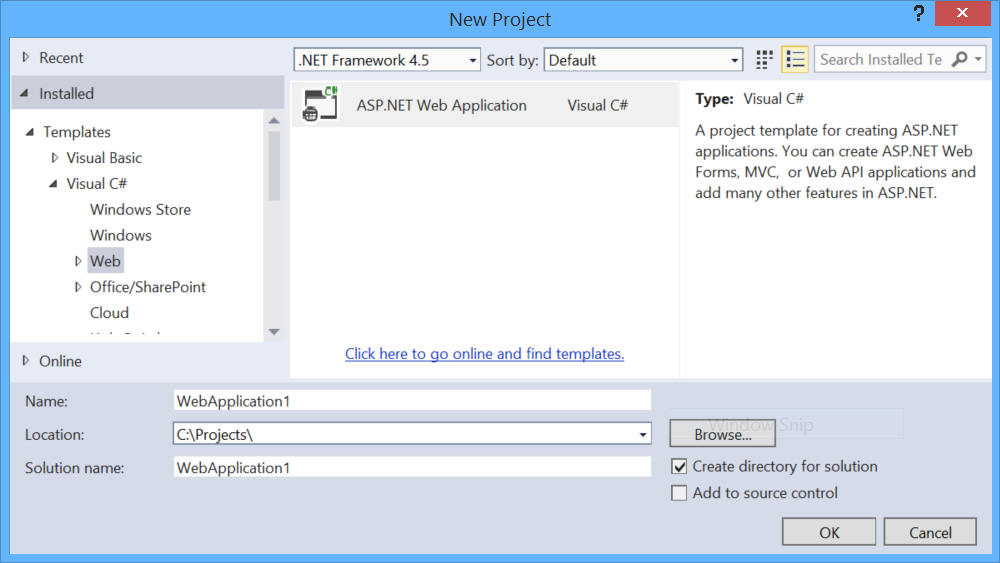
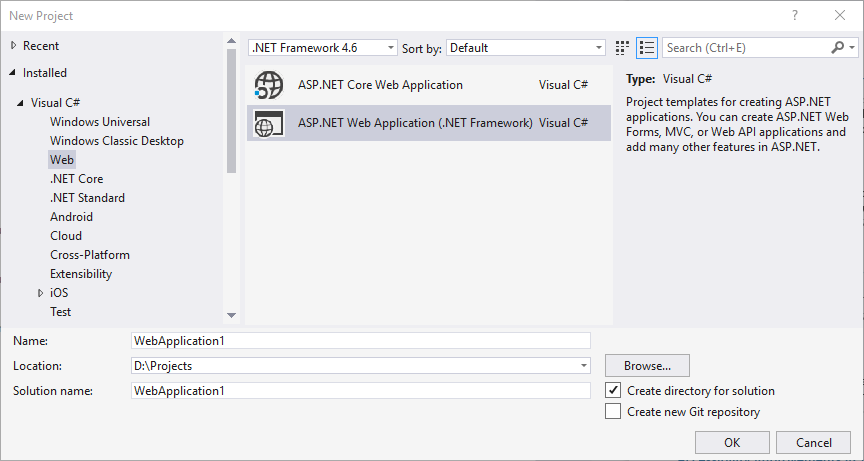
Update tracing in Web API to use VS 2017 (#4050)

diff --git a/aspnet/web-api/overview/testing-and-debugging/tracing-in-aspnet-web-api.md b/aspnet/web-api/overview/testing-and-debugging/tracing-in-aspnet-web-api.md
@@ -22,8 +22,8 @@ by [Mike Wasson](https://github.com/MikeWasson)
 > ## Software versions used in the tutorial
 > 
 > 
-> - [Visual Studio 2013](https://www.microsoft.com/visualstudio/eng/2013-downloads) (also works with Visual Studio 2012)
-> - Web API 2 (also works with Web API 1)
+> - [Visual Studio 2017](https://www.visualstudio.com/downloads/) (also works with Visual Studio 2015)
+> - Web API 2
 > - [Microsoft.AspNet.WebApi.Tracing](http://www.nuget.org/packages/Microsoft.AspNet.WebApi.Tracing)
 
 
